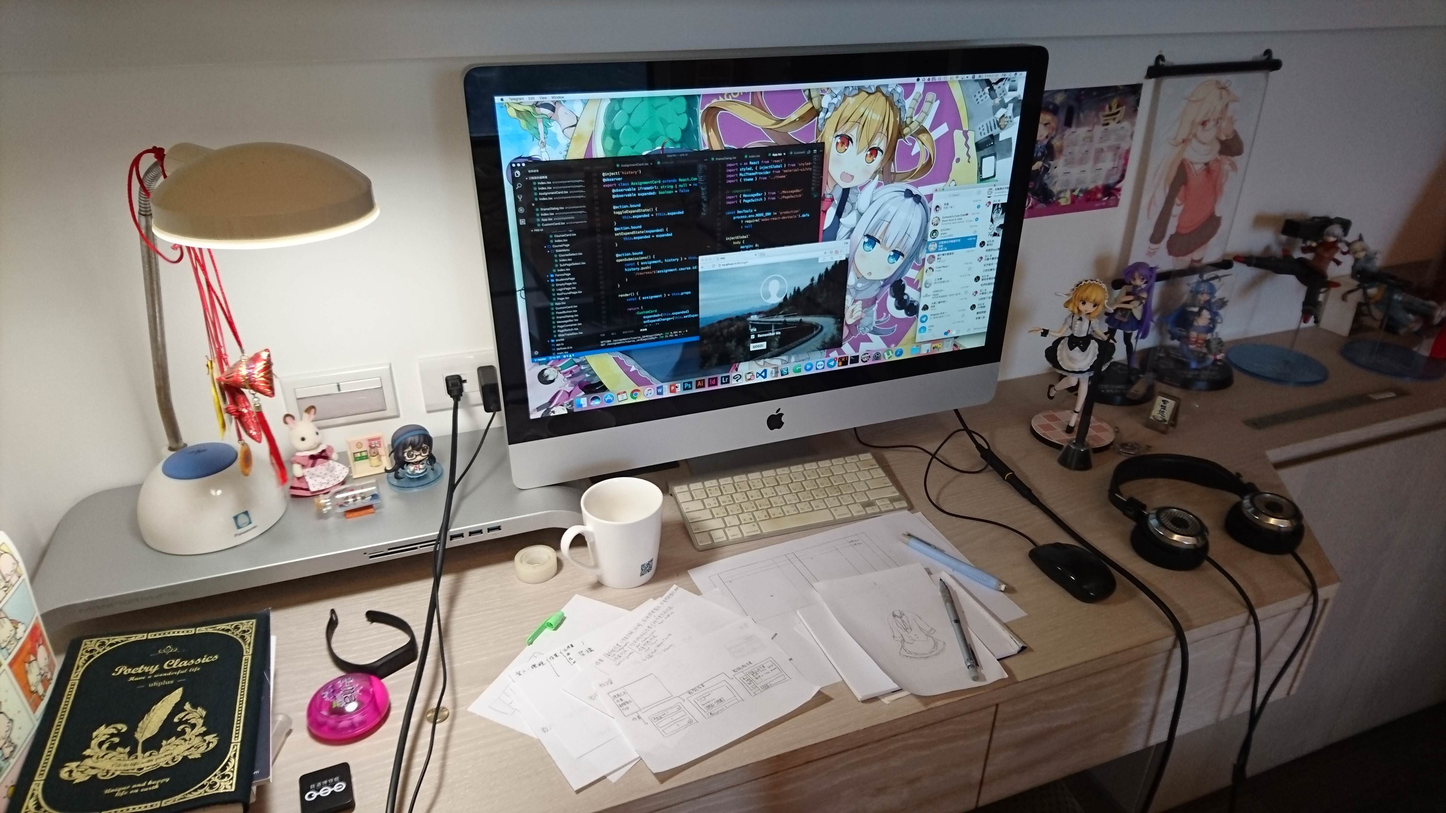
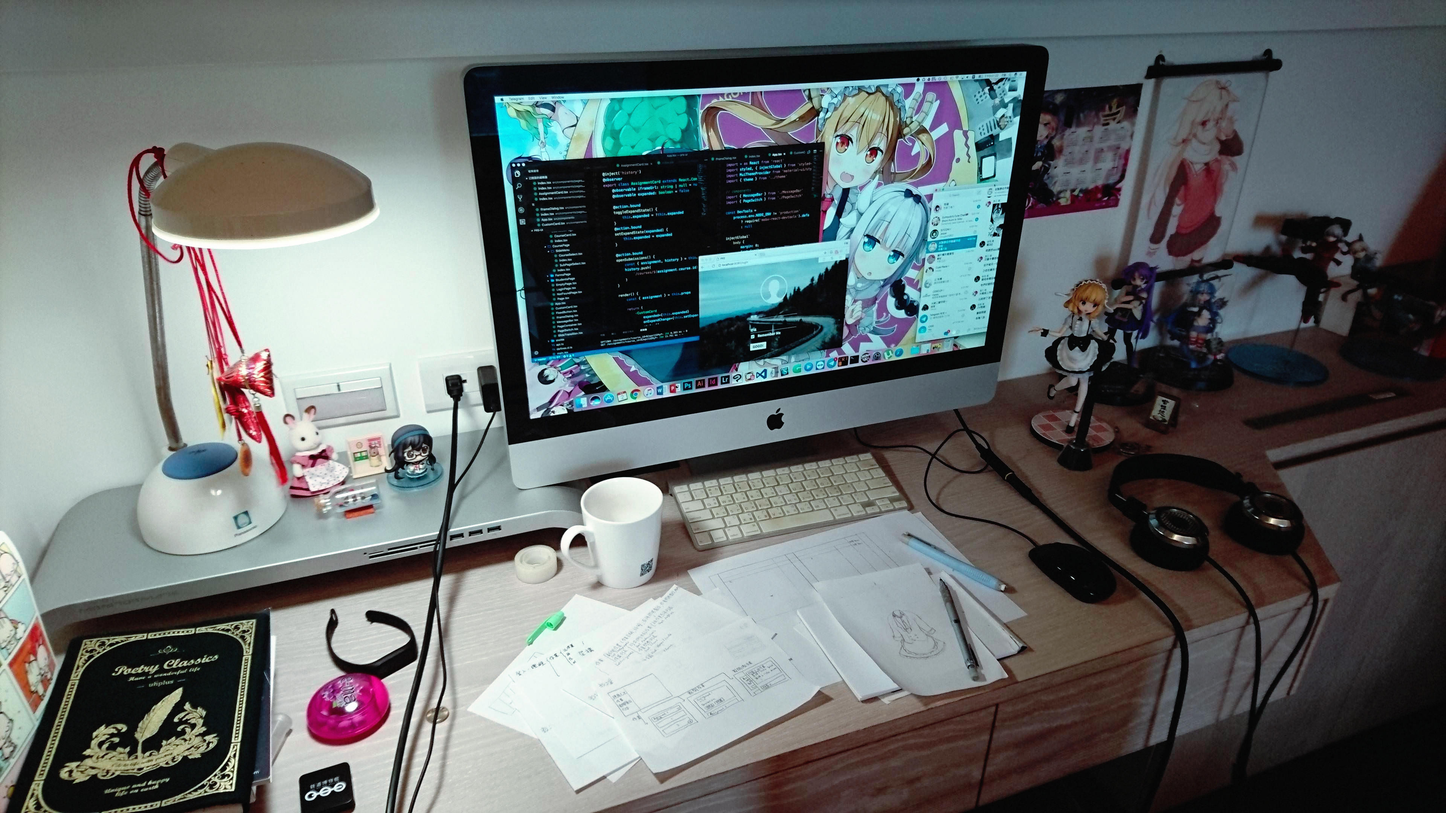
Remove select section and update imgs

diff --git a/style.css b/style.css
@@ -335,28 +335,6 @@ p {
     background-image: url('./img/room.jpg');
 }
 
-#select {
-    padding: 0;
-    display: flex;
-    flex-wrap: wrap;
-    justify-content: center;
-    align-items: center;
-    background-color: #27272c;
-    color: white;
-}
-
-#select img {
-    width: 95vw;
-    max-width: 2139px;
-    -webkit-transform: translateZ(0);
-    transform: translateZ(0);
-}
-
-#select h2 {
-    padding: 100px 0 30px 0;
-    margin: 0 40px 0 40px;
-}
-
 footer {
     margin: 0;
     display: flex;

diff --git a/index.html b/index.html
@@ -246,11 +246,6 @@
             </div>
         </section>
 
-        <section id="select">
-            <h2 class="needfade">Aki Select ─ 千秋的式神們</h2>
-            <img src="img/select.png" />
-        </section>
-
         <footer>
             <img id="contact_img" class="needfade" src="img/contact.png" />
             <div id="contact_text">
